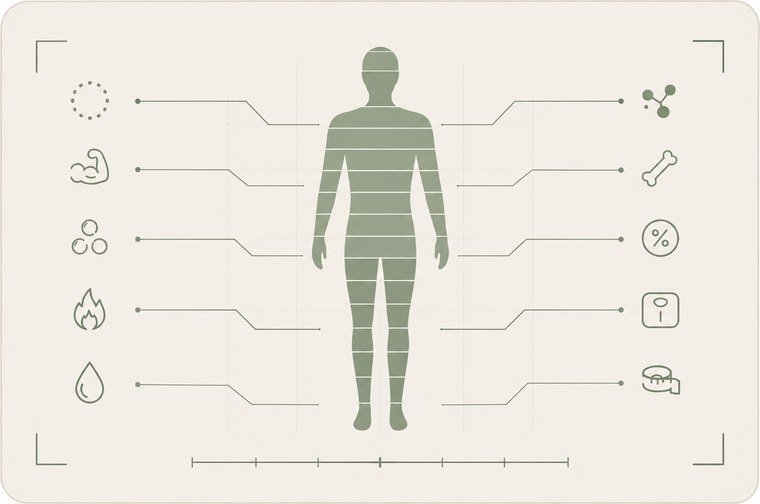
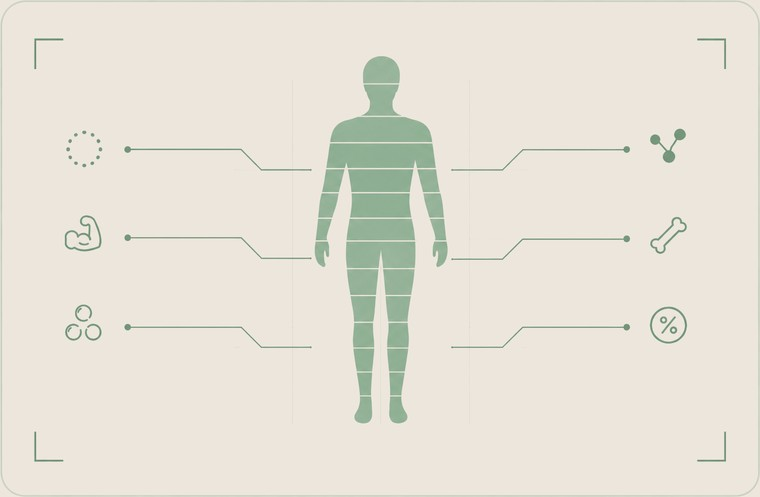
bio-age: use cleaner InBody scan (inbody 1) + recolor to brand sage
Swap to the cleaner InBody artwork (3 icons per side, no ruler). Luminance-remap
the muted grey-green to the exact card palette — silhouette to sage #8DAE92,
lines/icons to sage-deep #6B8B70, background to the card cream #EDE6DC — so it
matches the SVG metric cards. 25KB.

diff --git a/bio-age.html b/bio-age.html
@@ -85,7 +85,7 @@
 
       <article class="tech-card">
         <div class="tech-icon">
-          <img src="img/inbody-scan.jpg" alt="סריקת הרכב גוף, ניתוח מסת שריר, שומן, נוזלים ומינרלים" width="760" height="504" loading="lazy">
+          <img src="img/inbody-scan.jpg" alt="סריקת הרכב גוף, ניתוח מסת שריר, שומן, נוזלים ומינרלים" width="760" height="497" loading="lazy">
         </div>
         <div class="tech-content">
           <div class="tech-label">01 · Body Composition</div>
